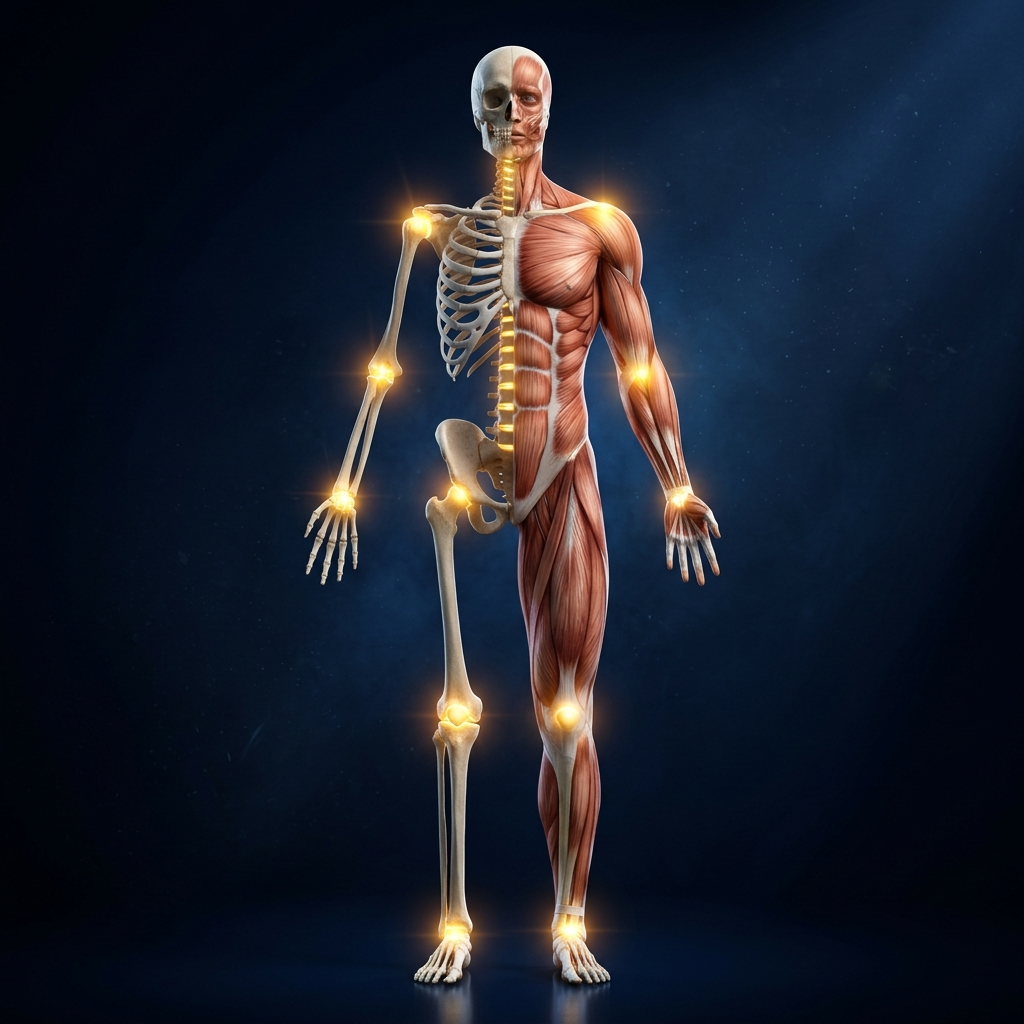
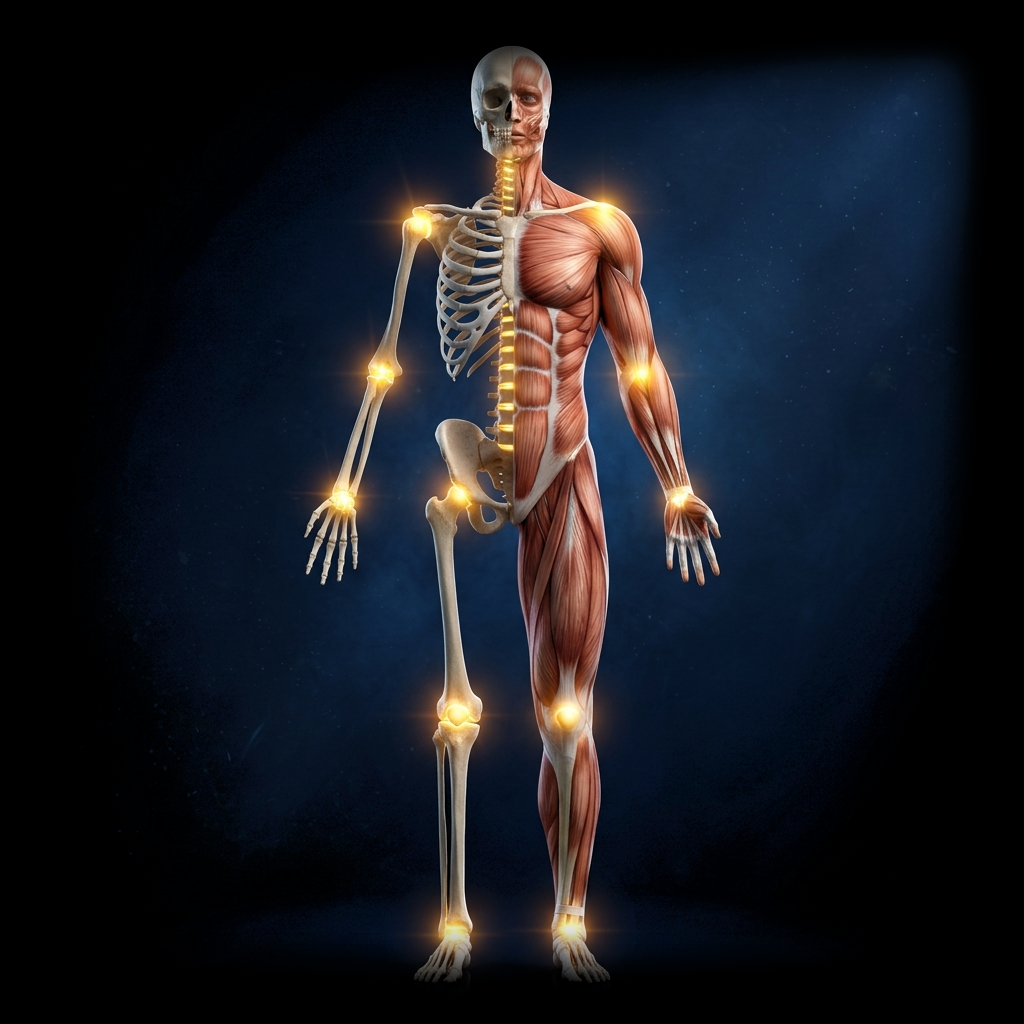
feat: restore luxury dark 3D cards with radial feathering for topics

Changed region(s): [[0.3438, 0.0, 1.0, 0.5312], [0.0938, 0.9062, 0.875, 1.0]]

diff --git a/src/components/TopicCard.tsx b/src/components/TopicCard.tsx
@@ -52,15 +52,15 @@ export default function TopicCard({ topic, pageCount }: TopicCardProps) {
       {/* 2. VẦNG SÁNG HUYỀN ẢO TÍM GÓC TRÊN BÊN PHẢI */}
       <div className="absolute -top-8 -right-8 w-28 h-28 bg-purple-600/25 rounded-full blur-xl pointer-events-none group-hover:bg-purple-500/35 transition-all" />
 
-      {/* 3. ẢNH GIẢI PHẪU 3D BÊN PHẢI (MIX-BLEND-SCREEN XÓA HOÀN TOÀN VIỀN ĐEN) */}
-      <div className="absolute right-0 top-2 bottom-7 w-[46%] sm:w-[44%] flex items-center justify-center pointer-events-none overflow-visible select-none z-0">
+      {/* 3. ẢNH GIẢI PHẪU 3D BÊN PHẢI (RADIAL MASK + MIX-BLEND-SCREEN XÓA 100% VIỀN HỘP) */}
+      <div className="absolute right-0 top-1.5 bottom-6 w-[48%] sm:w-[46%] flex items-center justify-center pointer-events-none overflow-visible select-none z-0">
         {hasCoverImage ? (
           // eslint-disable-next-line @next/next/no-img-element
           <img
             src={coverUrl!}
             alt={topic.title}
-            className={`w-full h-full max-h-[105px] sm:max-h-[115px] object-contain mix-blend-screen opacity-100 drop-shadow-[0_10px_18px_rgba(0,0,0,0.9)] group-hover:drop-shadow-[0_0_14px_rgba(167,139,250,0.55)] transition-all duration-300 ${
-              topic.slug === 'cot-song' ? 'scale-110' : ''
+            className={`w-full h-full max-h-[110px] sm:max-h-[120px] object-contain mix-blend-screen opacity-100 [-webkit-mask-image:radial-gradient(circle_at_50%_50%,black_28%,transparent_68%)] [mask-image:radial-gradient(circle_at_50%_50%,black_28%,transparent_68%)] group-hover:scale-105 transition-all duration-300 ${
+              topic.slug === 'cot-song' ? 'scale-110 group-hover:scale-115' : ''
             }`}
             onError={() => setImgError(true)}
             loading="lazy"
